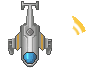
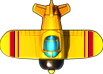
audio

diff --git a/src/game.tsx b/src/game.tsx
@@ -15,6 +15,7 @@ interface IState {
     countDown: number
     hero: any
     bg: any
+    timer: any
 }
 
 const ref: any = React.createRef();
@@ -44,6 +45,7 @@ export default class Game extends React.Component<any, IState> {
         super(props)
 
         this.state = {
+            timer: null,
             status: 0,
             countDown: 3,
             score: 0,
@@ -54,6 +56,7 @@ export default class Game extends React.Component<any, IState> {
         }
 
         this.handle = this.handle.bind(this);
+        this.audioPlay = this.audioPlay.bind(this);
         this.start = this.start.bind(this);
         this.renderMenu = this.renderMenu.bind(this);
     }
@@ -88,13 +91,16 @@ export default class Game extends React.Component<any, IState> {
 
     // 背景移动
     moveBg() {
-        const {bg} = this.state;
+        const {bg,status} = this.state;
         bg.lastTime = bg.lastTime || +new Date();
         let nowTime = +new Date();
         if (nowTime - bg.lastTime > bg.speed) {
+            // 分数越高速度越快
+            // bg.speed = status === RUNNING ? bg.speed - (bg.speed * (Math.acosh(config.score||1)/10)) : bg.speed;
             bg.y--;
             if (Math.abs(bg.y) >= config.height) {
                 bg.y = 0;
+                bg.speed-=1;
             }
             bg.lastTime = nowTime;
             this.setState({bg})
@@ -159,17 +165,21 @@ export default class Game extends React.Component<any, IState> {
                 let sumW = (enemyList[i].w + bulletList[j].w) / 2;
 
                 if (absY < sumH && absX < sumW) {
+                    // 保存子弹的攻击力，如果敌机生命值大于0，则受到子弹的攻击，同时销毁子弹
+                    let bulletLife = bulletList[j].life;
                     enemyList[i].life > 0 && bulletList.splice(j,1);
-                    enemyList[i].life -= bulletList[j].life;
-                    if (enemyList[i].life <= 0 && enemyList[i].destroy) {
+                    enemyList[i].life > 0 && (enemyList[i].life -= bulletLife);
+                    // 如果敌机生命值小于等于0，则计算分数（只计算一次）
+                    if (enemyList[i].life <= 0) {
                         if (enemyList[i].destroying === 0) {
                             config.score+= enemyList[i].score;
                             this.setState({score: this.state.score + enemyList[i].score})
                         }
-                        if (enemyList[i].destroy) {
-                            enemyList.splice(i,1);
-                        }
                     }
+                }
+                // 如果敌机已经销毁，则移除它
+                if (enemyList[i].destroy) {
+                    enemyList.splice(i,1);
                 }
             }
         }
@@ -188,11 +198,13 @@ export default class Game extends React.Component<any, IState> {
             let sumH = (enemyList[i].h + hero.height) / 2;
             let sumW = (enemyList[i].w + hero.width) / 2;
 
-            if (absY < sumH && absX < sumW && !enemyList[i].destroy) {
+            // 如果敌机没有被销毁，且与我方飞机相撞则扣除我方飞机一滴血，同时销毁敌方飞机
+            if (absY < sumH && absX < sumW && enemyList[i].destroying === 0) {
                 config.score+= enemyList[i].score;
                 this.setState({score: this.state.score + enemyList[i].score})
                 hero.life -= 1;
                 enemyList.splice(i,1);
+                // 我方飞机没有血量，游戏结束
                 if (hero.life <= 0) {
                     this.setState({status: END});
                 }
@@ -203,7 +215,7 @@ export default class Game extends React.Component<any, IState> {
 
     // 开始
     start() {
-        setInterval(() => {
+        let timer = setInterval(() => {
             switch(this.state.status) {
                 case START:
                     this.moveBg();
@@ -243,6 +255,8 @@ export default class Game extends React.Component<any, IState> {
                     break;
             }
         },10)
+
+        this.setState({timer})
     }
 
     handle(type: string) {
@@ -268,6 +282,12 @@ export default class Game extends React.Component<any, IState> {
                 break;
 
         }
+    }
+
+    // 设置播放声音
+    audioPlay(e: any) {
+        // 设置播放声音0~1
+        e.target.volume = 0.03;
     }
 
     renderMenu(status: number) {
@@ -315,6 +335,8 @@ export default class Game extends React.Component<any, IState> {
         return (
             <div>
                 <div style={{width: '100%'}}>
+
+                    {/* <div className="test"></div> */}
                     <div className="main" style={{
                         width: config.width + 'px',
                         height: config.height + 'px',
@@ -322,6 +344,8 @@ export default class Game extends React.Component<any, IState> {
                         }} ref={ref}>
                         {/* 背景 */}
                         <div className="bg" style={{bottom: bg.y+'px'}}>
+                            <audio src={require('./audio/bullet-default1.mp3')}></audio>
+
                             {[0,1].map((i: any) => <div className="bg-item" key={i} style={{
                                 width: config.width + 'px', 
                                 height: config.height + 'px',
@@ -336,9 +360,13 @@ export default class Game extends React.Component<any, IState> {
                                 left: item.x + 'px',
                                 width: item.w + 'px',
                                 height: item.h + 'px',
-                                background: 'url('+require('./image/'+item.image)+') center no-repeat',
-                                backgroundSize: item.w + 'px',
+                                background: 'url('+require('./image/'+item.image)+') no-repeat',
+                                backgroundPosition: item.bgPosition,
                                 }} key={item.id}>
+                                    {item.destroying > 0 ? 
+                                        <audio src={require('./audio/'+item.audio)} autoPlay></audio>
+                                        : null
+                                    }
                                     {/* {item.life} */}
                                 </div>)}
 
@@ -349,7 +377,9 @@ export default class Game extends React.Component<any, IState> {
                                 left: item.x + 'px',
                                 width: item.w + 'px',
                                 height: item.h + 'px',
-                                }} key={item.id}></span>)}
+                                }} key={item.id}>
+                                    <audio src={require('./audio/'+item.audio)} onCanPlay={(e) => this.audioPlay(e)} autoPlay></audio>
+                                </span>)}
                         
                         {/* 主机 */}
                         {hero.life > 0 ? 

diff --git a/src/plugins/config.ts b/src/plugins/config.ts
@@ -34,18 +34,24 @@ export const heroConfig = {
 }
 
 export const enemyConfig: any = {
-    mini: {name: '小型', type: 'mini', w: 40, h: 40, life: 1, speed: 300, move: 2, maxMoveSpeed: 10, minMoveSpeed: 1, score: 1, image: 'enemy1.png'},
-    default: {name: '普通', type: 'default', w: 57, h: 43, life: 1, speed: 2000, move: 2, maxMoveSpeed: 50, minMoveSpeed: 30, score: 1, image: 'dj1.png'},
-    middle: {name: '中型', type: 'middle', w: 69, h: 99, life: 5, speed: 4000, move: 2, maxMoveSpeed: 60, minMoveSpeed: 30, score: 5, image: 'dj2.png'},
-    large: {name: '大型', type: 'large', w: 169, h: 258, life: 10, speed: 8000, move: 2, maxMoveSpeed: 90, minMoveSpeed: 70, score: 10, image: 'dj3.png'},
-    boss: {name: 'boss', type: 'boss', w: 250, h: 300, life: 30, speed: 10000, move: 2, maxMoveSpeed: 300, minMoveSpeed: 200, score: 100, image: 'enemy3_n2.png'},
+    mini: {name: '小型', type: 'mini', w: 60, h: 43, life: 1, speed: 300, move: 2, maxMoveSpeed: 10, minMoveSpeed: 1, score: 1, image: 'dj11.png', audio: 'enemy-destroy1.mp3'},
+    default: {name: '普通', type: 'default', w: 97, h: 75, life: 1, speed: 2000, move: 2, maxMoveSpeed: 50, minMoveSpeed: 30, score: 2, image: 'dj8.png', audio: 'enemy-destroy1.mp3'},
+    middle: {name: '中型', type: 'middle', w: 197, h: 134, life: 5, speed: 4000, move: 2, maxMoveSpeed: 60, minMoveSpeed: 30, score: 5, image: 'dj4.png', audio: 'enemy-destroy1.mp3'},
+    large: {name: '大型', type: 'large', w: 200, h: 200, life: 10, speed: 8000, move: 2, maxMoveSpeed: 90, minMoveSpeed: 70, score: 10, image: 'dj10.png', audio: 'enemy-destroy1.mp3'},
+    boss: {name: 'boss', type: 'boss', w: 149, h: 86, life: 30, speed: 10000, move: 2, maxMoveSpeed: 300, minMoveSpeed: 200, score: 100, image: 'boss1.png', audio: 'enemy-destroy1.mp3'},
 }
 
 export const bulletConfig: any = {
-   default: {name: '普通', type: 'default', w: 6, h: 12, life: 1, speed: 300, move: 2},
-   middle: {name: '中型', type: 'middle', w: 10, h: 15, life: 2, speed: 300, move: 2},
-   large: {name: '大型', type: 'large', w: 15, h: 18, life: 3, speed: 300, move: 2},
-   boss: {name: 'boss', type: 'boss', w: 30, h: 26, life: 4, speed: 300, move: 2},
+   default: {name: '普通', type: 'default', w: 6, h: 12, life: 1, speed: 300, move: 2, audio: 'bullet-default1.mp3'},
+   middle: {name: '中型', type: 'middle', w: 10, h: 15, life: 2, speed: 300, move: 2, audio: 'bullet-default1.mp3'},
+   large: {name: '大型', type: 'large', w: 15, h: 18, life: 3, speed: 300, move: 2, audio: 'bullet-default1.mp3'},
+   boss: {name: 'boss', type: 'boss', w: 30, h: 26, life: 4, speed: 300, move: 2, audio: 'bullet-default1.mp3'},
 }
 
-
+export const destroyConfig: any = {
+    mini: {type: 'mini', w: 97, h: 85, life: 6, speed: 100, image: 'destroy2.png'},
+    default: {type: 'default', w: 97, h: 85, life: 6, speed: 100, image: 'destroy2.png'},
+    middle: {type: 'middle', w: 97, h: 85, life: 6, speed: 100, image: 'destroy2.png'},
+    large: {type: 'large', w: 97, h: 85, life: 6, speed: 100, image: 'destroy2.png'},
+    boss: {type: 'boss', w: 97, h: 85, life: 6, speed: 100, image: 'destroy2.png'},
+}

diff --git a/src/plugins/enemy.ts b/src/plugins/enemy.ts
@@ -1,4 +1,4 @@
-import {config, enemyConfig, heroConfig} from './config'
+import {config, enemyConfig, heroConfig, destroyConfig} from './config'
 
 export class Enemy {
     id: number = 0;
@@ -22,8 +22,9 @@ export class Enemy {
                 moveSpeed: this.RandomNum(enemy.minMoveSpeed, enemy.maxMoveSpeed),
                 id: this.id,
                 lastTime: nowTime,
-                destroy: false,
-                destroying: 0,
+                destroy: false,     // 是否销毁
+                destroying: 0,      // 销毁中
+                bgPosition: 'center',   // 背景定位
             }
             // 分数越高速度越快
             enemyObj.moveSpeed = enemyObj.moveSpeed - (enemyObj.moveSpeed * (Math.acosh(config.score||1)/10));
@@ -42,16 +43,37 @@ export class Enemy {
         if (nowTime - enemy.lastTime > enemy.moveSpeed)  {
             if (enemy.life > 0) {
                 enemy.y += enemy.move;
-                enemy.lastTime = nowTime
             } else {
-                enemy.image = 'destroy1.png';
-                enemy.destroying++;
-                if (enemy.destroying >= 6) {
+                let destroyObj = destroyConfig[enemy.type];
+                enemy.moveSpeed = destroyObj.speed; 
+                if (enemy.destroying < destroyObj.life) {
+                    enemy.image = destroyObj.image;
+                    enemy.destroying++;
+                    let centerSite = this.computeCenter(enemy, destroyObj);
+                    enemy.x = enemy.w > destroyObj.w ? enemy.x + centerSite.x : enemy.w < destroyObj.w ? enemy.x - centerSite.x : enemy.x;
+                    enemy.y = enemy.h > destroyObj.h ? enemy.y + centerSite.y : enemy.h < destroyObj.h ? enemy.y - centerSite.y : enemy.y;
+                    enemy.w = destroyObj.w
+                    enemy.h = destroyObj.h
+                    enemy.bgPosition = -enemy.w * (enemy.destroying - 1) + 'px 0px';
+                } else {
                     enemy.destroy = true;
                 }
             }
+            enemy.lastTime = nowTime
         }
         return enemy
+    }
+
+    // 计算两个box中心点的距离
+    computeCenter(box1: any, box2:any) {
+        let cx1 = box1.w / 2,
+            cy1 = box1.h / 2,
+            cx2 = box2.w / 2,
+            cy2 = box2.h / 2;
+        return {
+            x: Math.abs(cx1 - cx2),
+            y: Math.abs(cy1 - cy2)
+        }
     }
 
     getEnemyType() {

diff --git a/src/game.css b/src/game.css
@@ -26,7 +26,7 @@
     text-align: center;
     color: #fff;
     background-size: 100%;
-    /* border: 1px solid #ccc; */
+    border: 1px solid #ccc;
 }
 
 .fj {
@@ -124,4 +124,13 @@
     width: 100%;
     padding: 20px 10px;
     font-size: 24px;
+}
+
+.test {
+    width: 81px;
+    height: 120px;
+    border: 1px solid #333;
+    margin-left: 80px;
+    background: url(./image/destroy1.png) no-repeat;
+    background-position: -82px; 
 }
